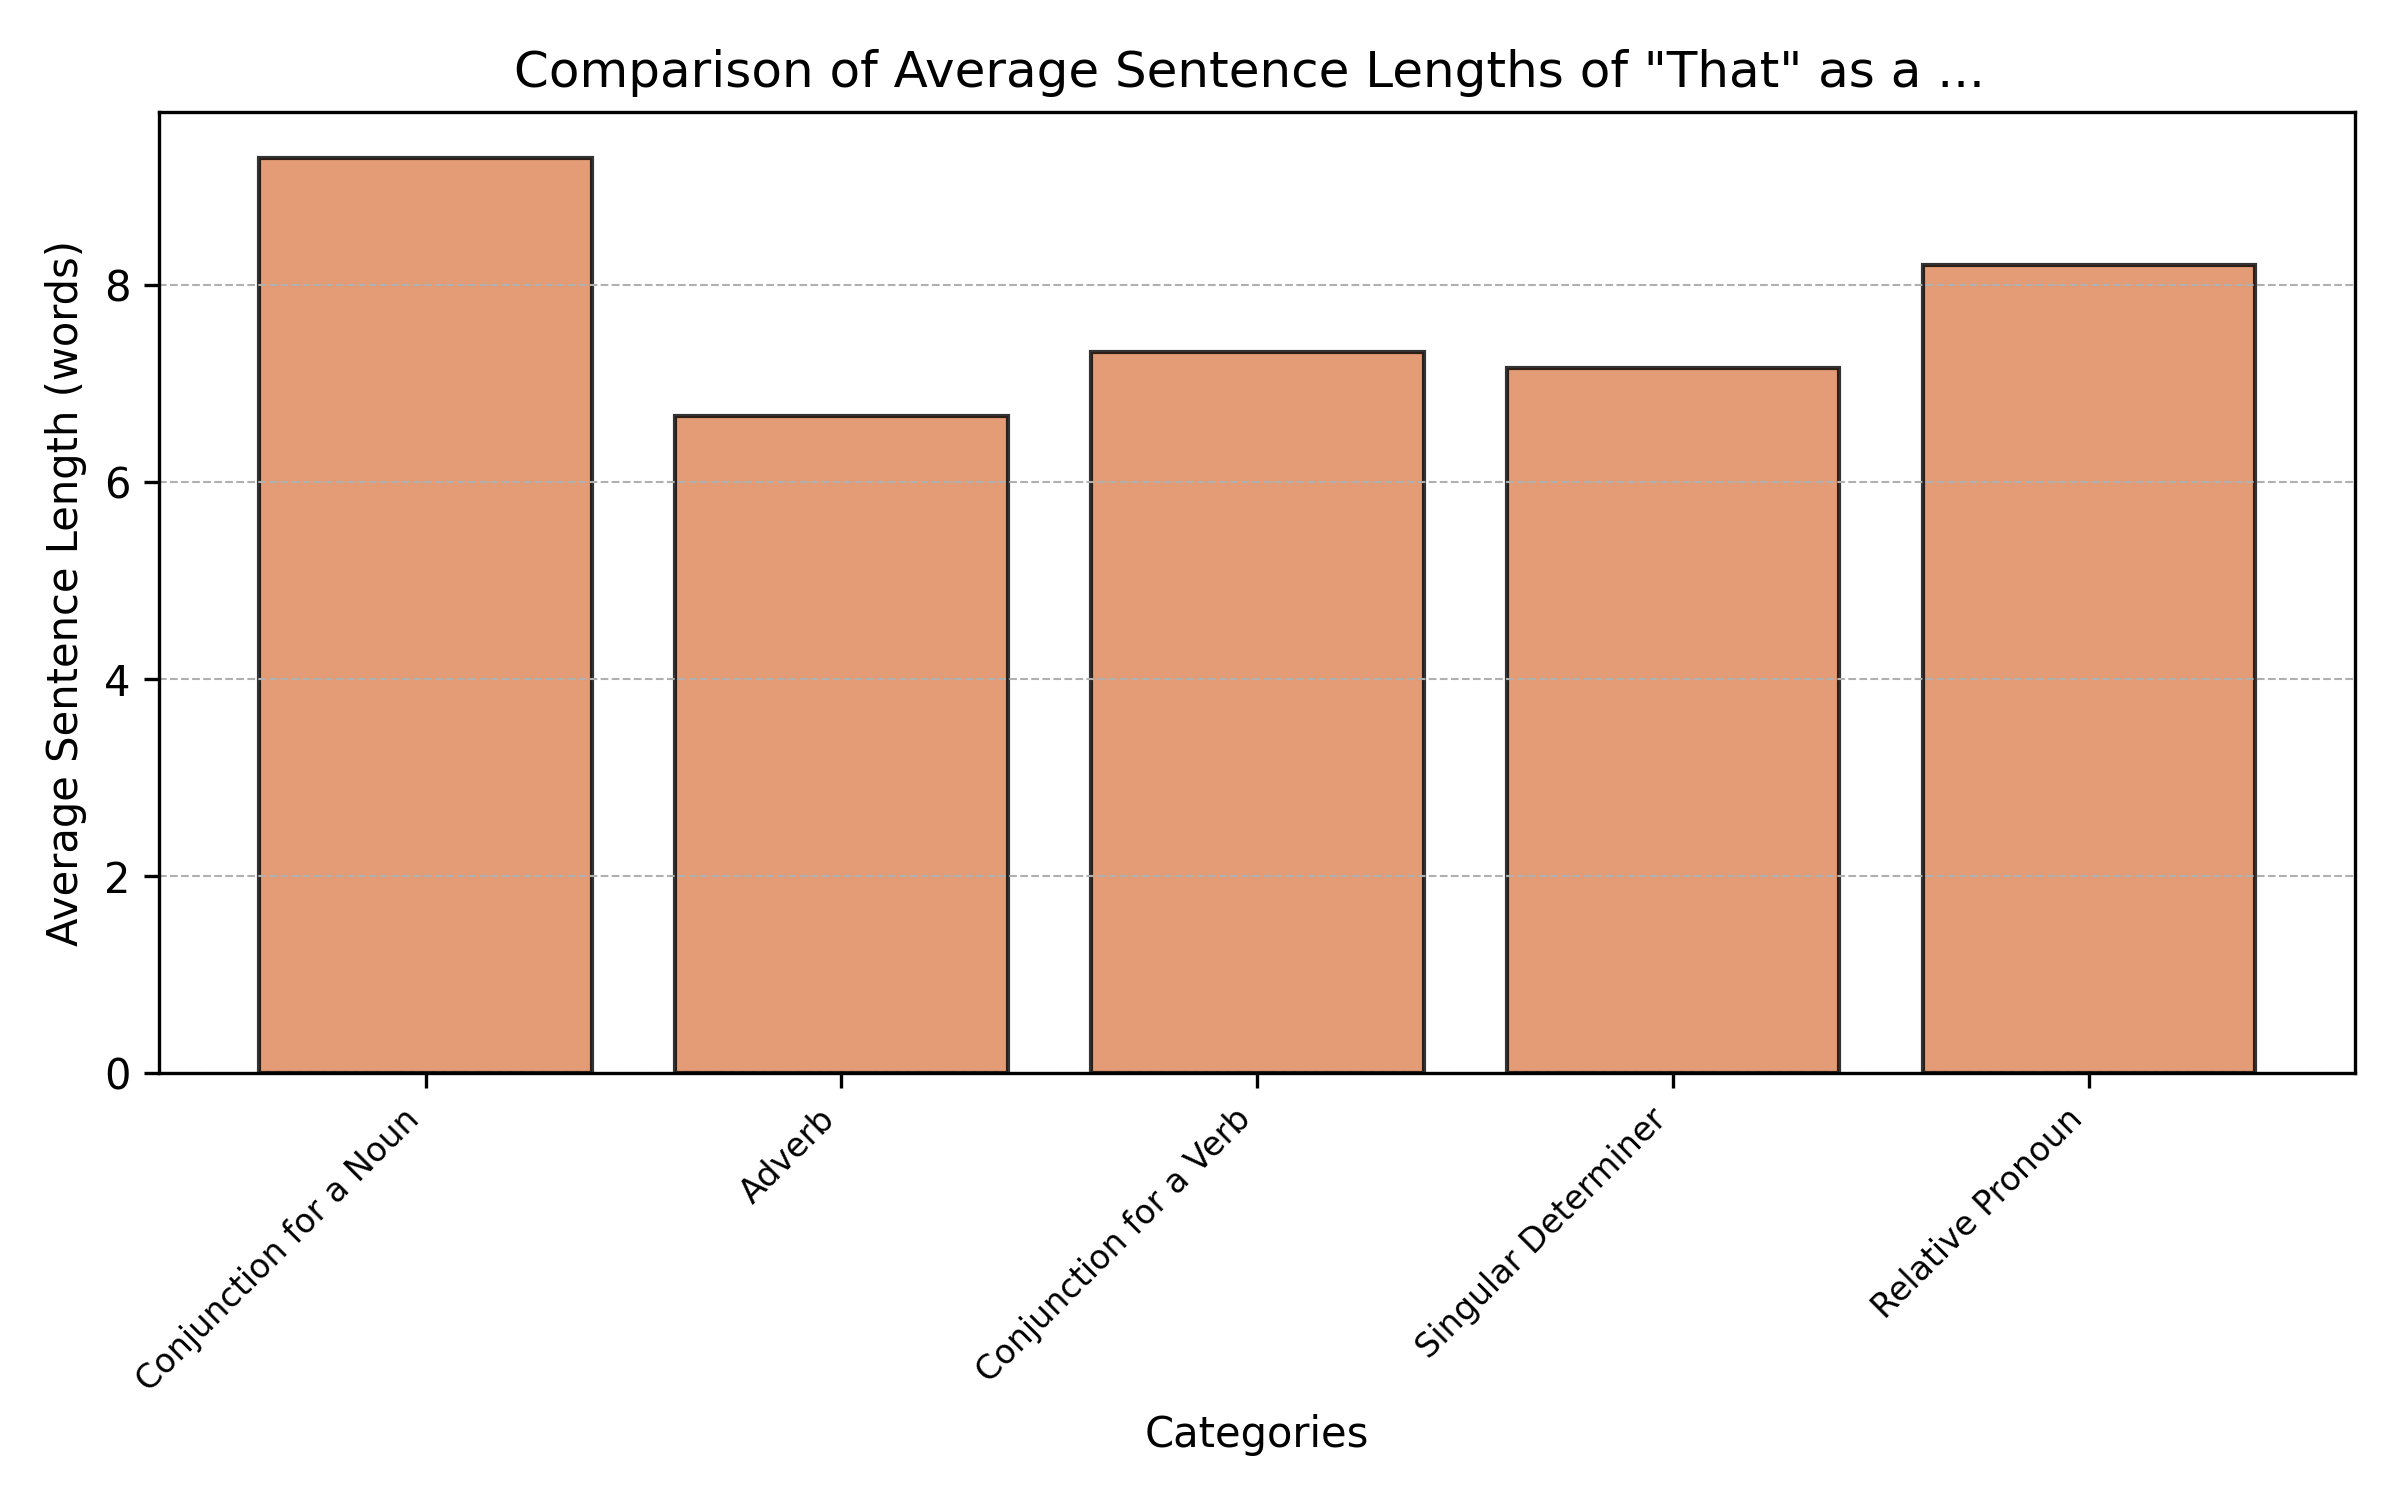
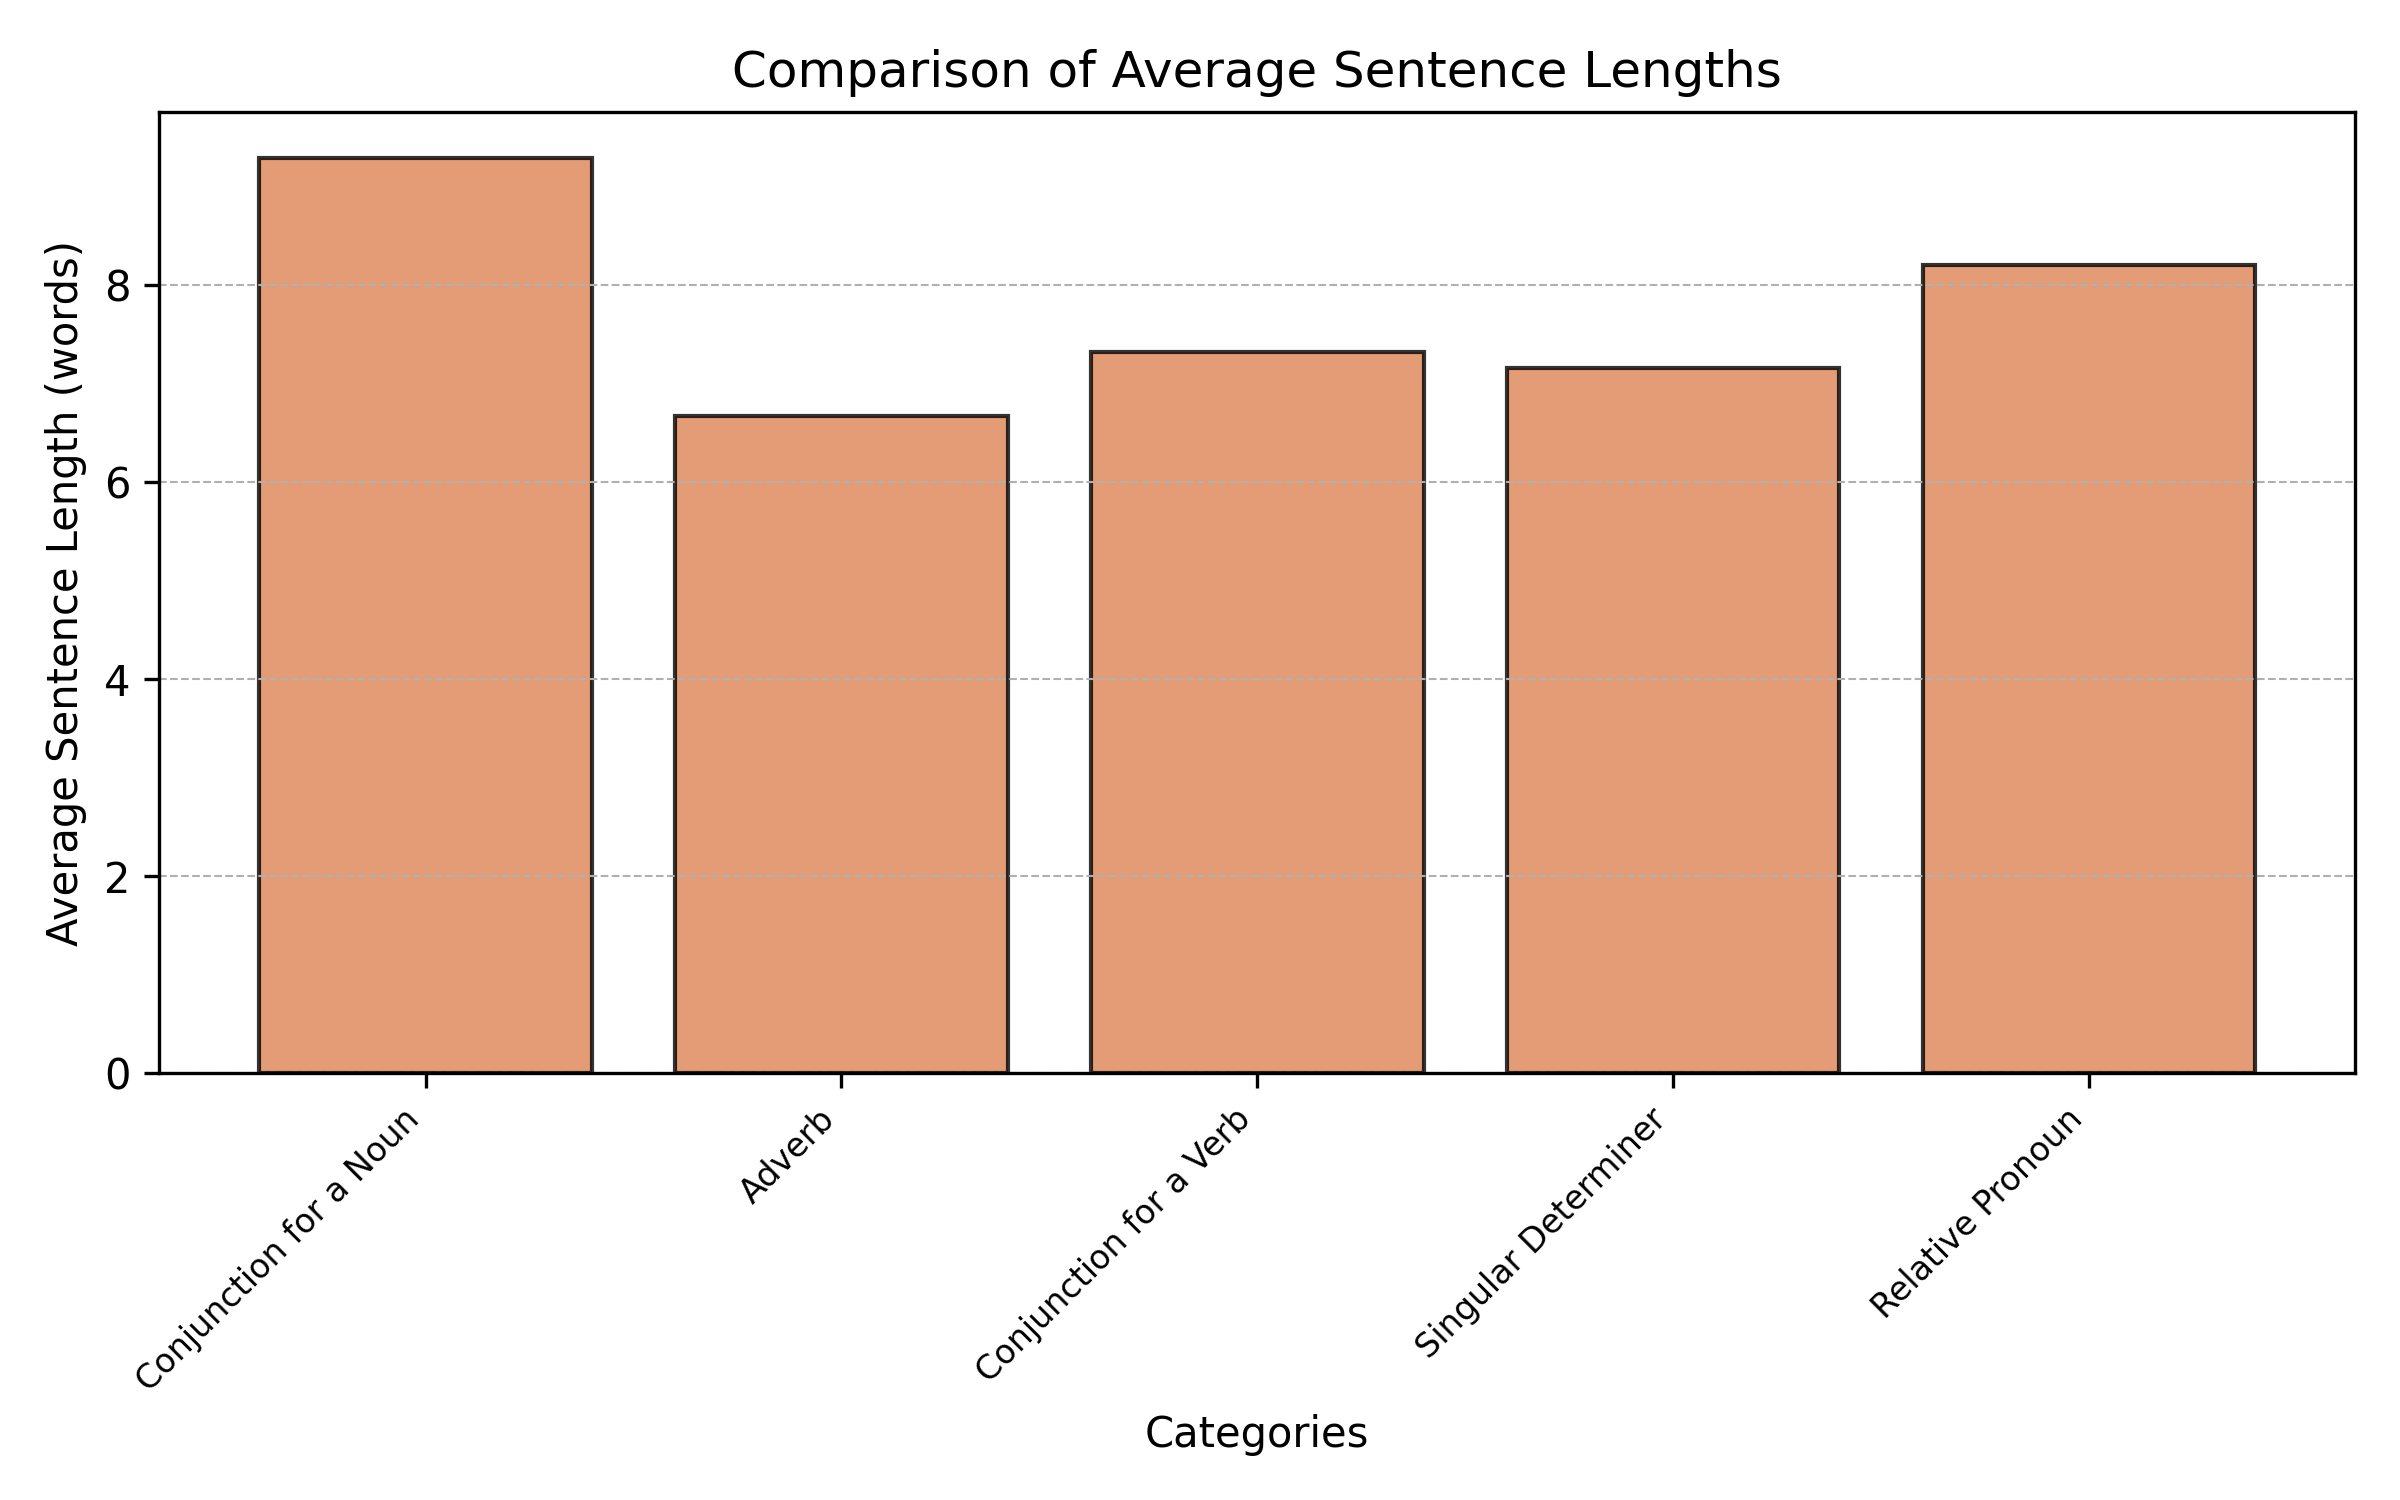
Statistical Analysis of test dataset

Changed region(s): [[0.2188, 0.0307, 0.8125, 0.0613]]

diff --git a/statical-analysis.py b/statical-analysis.py
@@ -1,7 +1,15 @@
 import os
 import re
+import string
 import matplotlib.pyplot as plt
 import numpy as np
+from collections import Counter
+import nltk
+from nltk.corpus import stopwords
+
+# Download stopwords if not already downloaded
+nltk.download('stopwords')
+stop_words = set(stopwords.words('english'))
 
 # Define folder paths
 data_folder = "Data"
@@ -25,7 +33,7 @@ histogram_color = "#4C72B0"  # Dark blue
 bar_color = "#DD8452"        # Muted orange
 pie_colors = ["#4C72B0", "#55A868", "#C44E52", "#8172B3", "#937860"]  # Soft, contrasting colors
 
-# Function to analyze a file
+# Function to analyze a file at the sentence level
 def analyze_file(filepath):
     with open(filepath, "r", encoding="utf-8") as file:
         text = file.read()
@@ -37,10 +45,13 @@ def analyze_file(filepath):
 
     return len(sentences), sentence_lengths
 
-# Store results
+# Containers for sentence-level results
 sentence_counts = {}
 sentence_lengths = {}
 
+# -------------------------------
+# Sentence-level Analysis
+# -------------------------------
 for file, label in file_labels.items():
     filepath = os.path.join(data_folder, file)
     
@@ -63,7 +74,7 @@ for file, label in file_labels.items():
         plt.savefig(os.path.join(output_folder, f"{display_label.replace(' ', '_')}_histogram.png"), dpi=300)
         plt.close()
 
-# Save statistical analysis
+# Save sentence-level statistical analysis results
 with open(output_file, "w") as f:
     for label, count in sentence_counts.items():
         avg_length = np.mean(sentence_lengths[label])
@@ -72,9 +83,8 @@ with open(output_file, "w") as f:
         f.write(f"Average sentence length: {avg_length:.2f} words\n")
         f.write("-" * 40 + "\n")
 
-# Compute average sentence lengths
+# Compute average sentence lengths for each category
 avg_lengths = {label: np.mean(lengths) for label, lengths in sentence_lengths.items()}
-# Create a dictionary with display labels by removing the prefix
 display_avg_lengths = {label.replace("That as a ", "").replace("That as an ", ""): avg for label, avg in avg_lengths.items()}
 
 # Plot comparison of average sentence lengths
@@ -82,7 +92,7 @@ plt.figure(figsize=(8, 5))
 plt.bar(display_avg_lengths.keys(), display_avg_lengths.values(), color=bar_color, edgecolor="black", alpha=0.8)
 plt.xlabel("Categories", fontsize=10)
 plt.ylabel("Average Sentence Length (words)", fontsize=10)
-plt.title('Comparison of Average Sentence Lengths of "That" as a ... ', fontsize=12)
+plt.title("Comparison of Average Sentence Lengths", fontsize=12)
 plt.xticks(rotation=45, ha='right', fontsize=8)
 plt.grid(axis='y', linestyle="--", linewidth=0.5)
 plt.tight_layout()  # Ensure labels are not cut off
@@ -92,7 +102,80 @@ plt.close()
 # Plot pie chart for the proportion of average sentence lengths
 plt.figure(figsize=(8, 5))
 plt.pie(display_avg_lengths.values(), labels=display_avg_lengths.keys(), autopct="%1.1f%%", startangle=140, colors=pie_colors)
-plt.title(f'Proportion of Average Sentence Lengths of "That" as a ... ', fontsize=12)
-plt.tight_layout()  # Ensure the plot fits well within the figure area
+plt.title("Proportion of Average Sentence Lengths", fontsize=12)
+plt.tight_layout()
 plt.savefig(os.path.join(output_folder, "average_sentence_length_pie_chart.png"), dpi=300)
 plt.close()
+
+# -------------------------------
+# Further Analysis: Word Frequency & Lexical Diversity
+# -------------------------------
+
+# Containers for further analysis results
+word_counts = {}
+lexical_diversity = {}
+top_words = {}
+
+# Loop through each file to analyze word-level metrics
+for file, label in file_labels.items():
+    filepath = os.path.join(data_folder, file)
+    if os.path.exists(filepath):
+        with open(filepath, "r", encoding="utf-8") as f:
+            text = f.read()
+        # Remove punctuation and convert to lowercase
+        translator = str.maketrans("", "", string.punctuation)
+        text_clean = text.translate(translator).lower()
+        words = text_clean.split()
+        # Remove stopwords before further analysis
+        words = [w for w in words if w not in stop_words]
+        
+        total_words = len(words)
+        unique_words = len(set(words))
+        lexical_diversity[label] = unique_words / total_words if total_words > 0 else 0
+        
+        # Count word frequencies and get top 10 words
+        counts = Counter(words)
+        top_words[label] = counts.most_common(10)
+        word_counts[label] = counts
+
+        # Plot top 10 words for this file using the same histogram color
+        display_label = label.replace("That as a ", "").replace("That as an ", "")
+        if top_words[label]:
+            words_top, freqs_top = zip(*top_words[label])
+            plt.figure(figsize=(8, 5))
+            plt.bar(words_top, freqs_top, color=bar_color, edgecolor="black", alpha=0.8)
+            plt.xlabel("Words", fontsize=10)
+            plt.ylabel("Frequency", fontsize=10)
+            plt.title(f"Top 10 Co-occurring Words with 'That' as {display_label}", fontsize=12)
+            plt.xticks(rotation=45, ha="right", fontsize=8)
+            plt.tight_layout()
+            plt.savefig(os.path.join(output_folder, f"top_10_words_{display_label.replace(' ', '_')}.png"), dpi=300)
+            plt.close()
+
+# Plot comparison of lexical diversity across categories
+display_lex_diversity = {label.replace("That as a ", "").replace("That as an ", ""): diversity 
+                         for label, diversity in lexical_diversity.items()}
+
+plt.figure(figsize=(8, 5))
+plt.bar(display_lex_diversity.keys(), display_lex_diversity.values(), color=bar_color, edgecolor="black", alpha=0.8)
+plt.xlabel("Categories", fontsize=10)
+plt.ylabel("Lexical Diversity (Unique/Total words)", fontsize=10)
+plt.title("Lexical Diversity Comparison", fontsize=12)
+plt.xticks(rotation=45, ha="right", fontsize=8)
+plt.tight_layout()
+plt.savefig(os.path.join(output_folder, "lexical_diversity_comparison.png"), dpi=300)
+plt.close()
+
+# Append further analysis results to the text report
+with open(output_file, "a") as f:
+    f.write("\nFurther Analysis:\n")
+    f.write("=" * 40 + "\n")
+    for label in file_labels.values():
+        f.write(f"{label}:\n")
+        f.write(f"Lexical Diversity (Unique/Total words): {lexical_diversity[label]:.2f}\n")
+        f.write("Top 10 words:\n")
+        for word, freq in top_words[label]:
+            f.write(f"  {word}: {freq}\n")
+        f.write("-" * 40 + "\n")
+
+print("Analysis completed! All results have been saved in the 'statistical_results' folder.")
